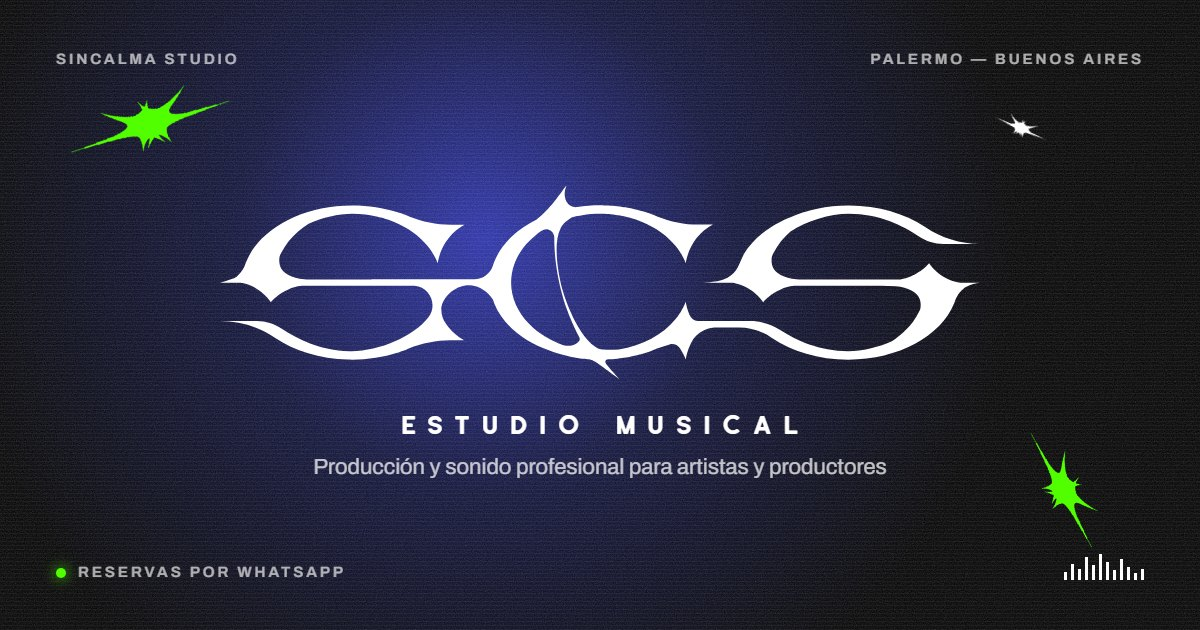
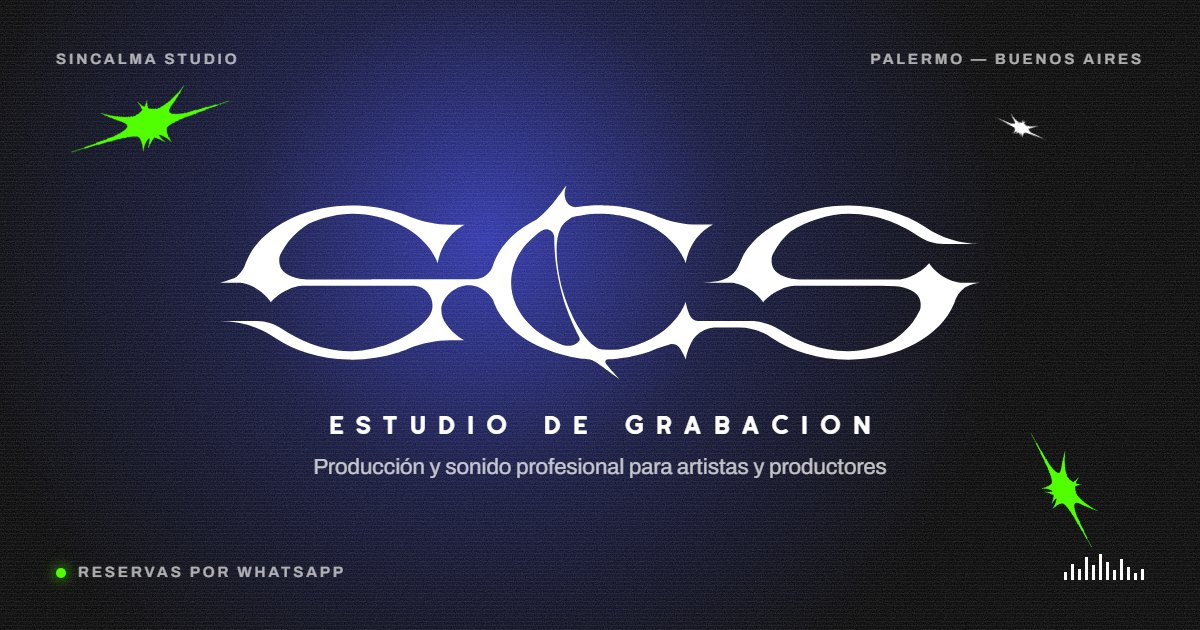
Estudio de grabación en lugar de estudio musical
Hero, título, descripción, OG/Twitter, texto de Sobre e imagen para
compartir. JSON-LD pasa a LocalBusiness (MusicStudio no es un tipo de
schema.org). Tracking del subtítulo del hero algo menor bajo 360px para
que entre en una línea.

Changed region(s): [[0.2775, 0.6333, 0.74, 0.6937]]

diff --git a/public/index.html b/public/index.html
@@ -3,23 +3,23 @@
 <head>
 <meta charset="utf-8">
 <meta name="viewport" content="width=device-width, initial-scale=1, viewport-fit=cover">
-<title>SinCalma Studio — Estudio musical en Palermo, Buenos Aires</title>
-<meta name="description" content="Estudio musical profesional y espacio creativo en Palermo, Buenos Aires. Grabación, producción, mezcla y master para artistas y productores. Reservá por WhatsApp.">
+<title>SinCalma Studio — Estudio de grabación en Palermo, Buenos Aires</title>
+<meta name="description" content="Estudio de grabación profesional y espacio creativo en Palermo, Buenos Aires. Grabación, producción, mezcla y master para artistas y productores. Reservá por WhatsApp.">
 <meta name="theme-color" content="#000000">
 <link rel="canonical" href="https://sincalma-studio.pages.dev/">
 <meta property="og:type" content="website">
 <meta property="og:locale" content="es_AR">
 <meta property="og:site_name" content="SinCalma Studio">
-<meta property="og:title" content="SinCalma Studio — Estudio musical en Palermo">
+<meta property="og:title" content="SinCalma Studio — Estudio de grabación en Palermo">
 <meta property="og:description" content="Producción y sonido profesional para artistas y productores. Reservá tu sesión por WhatsApp.">
 <meta property="og:url" content="https://sincalma-studio.pages.dev/">
 <meta property="og:image" content="https://sincalma-studio.pages.dev/og-image.jpg">
 <meta property="og:image:width" content="1200">
 <meta property="og:image:height" content="630">
 <meta property="og:image:type" content="image/jpeg">
-<meta property="og:image:alt" content="Logo de SinCalma Studio sobre fondo negro con brillo azul: estudio musical en Palermo, Buenos Aires">
+<meta property="og:image:alt" content="Logo de SinCalma Studio sobre fondo negro con brillo azul: estudio de grabación en Palermo, Buenos Aires">
 <meta name="twitter:card" content="summary_large_image">
-<meta name="twitter:title" content="SinCalma Studio — Estudio musical en Palermo">
+<meta name="twitter:title" content="SinCalma Studio — Estudio de grabación en Palermo">
 <meta name="twitter:description" content="Producción y sonido profesional para artistas y productores. Reservá tu sesión por WhatsApp.">
 <meta name="twitter:image" content="https://sincalma-studio.pages.dev/og-image.jpg">
 <link rel="icon" href="/favicon.ico" sizes="any">
@@ -36,7 +36,7 @@
   try{var rm=matchMedia('(prefers-reduced-motion: reduce)').matches;if(!rm&&!sessionStorage.getItem('sc-loader')){d.classList.add('js-loading')}}catch(e){}})();
 </script>
 <script type="application/ld+json">
-{"@context":"https://schema.org","@type":"MusicStudio","additionalType":"https://schema.org/LocalBusiness","name":"SinCalma Studio","description":"Estudio musical profesional y espacio creativo para artistas y productores.","url":"https://sincalma-studio.pages.dev/","image":"https://sincalma-studio.pages.dev/og-image.jpg","founder":{"@type":"Person","name":"Serena Ordano","alternateName":"Serena Sin Calma"},"address":{"@type":"PostalAddress","addressLocality":"Palermo, Buenos Aires","addressRegion":"CABA","addressCountry":"AR"},"areaServed":"Buenos Aires","sameAs":["https://instagram.com/sincalma.studio"]}
+{"@context":"https://schema.org","@type":"LocalBusiness","name":"SinCalma Studio","description":"Estudio de grabación profesional y espacio creativo para artistas y productores.","url":"https://sincalma-studio.pages.dev/","image":"https://sincalma-studio.pages.dev/og-image.jpg","founder":{"@type":"Person","name":"Serena Ordano","alternateName":"Serena Sin Calma"},"address":{"@type":"PostalAddress","addressLocality":"Palermo, Buenos Aires","addressRegion":"CABA","addressCountry":"AR"},"areaServed":"Buenos Aires","sameAs":["https://instagram.com/sincalma.studio"]}
 </script>
 <script type="module" src="/js/main.js"></script>
 </head>
@@ -92,12 +92,12 @@
       <img class="star" data-spin="-8" data-pulse=".05" data-par="-0.5" src="/assets/star-green.png" alt="" style="right:7%;bottom:17%;width:clamp(70px,9vw,160px)">
 
       <h1 class="hero-center">
-        <span class="sr-only">SinCalma Studio — Estudio musical en Palermo</span>
+        <span class="sr-only">SinCalma Studio — Estudio de grabación en Palermo</span>
         <span class="hero-logo" aria-hidden="true">
           <svg class="logo-svg" data-trace viewBox="0 0 383.08 97.1" xmlns="http://www.w3.org/2000/svg" focusable="false"><path d="M373.26,48.69c-.53,0-1.05-.08-1.56-.25h-.01c-1.85-.41-4.25-1.17-6.8-2.65-3.9-2.3-6.23-5.2-7.43-6.92-.86.96-2.26,2.38-4.19,3.79,0,0-2.21,1.59-4.89,2.74-1.75.76-3.59,1.27-5.38,1.59h-49.52c-.98-.04-1.95-.07-2.92-.12-6.17-.51-10.8-2.99-12.02-6.42-.99-2.77-.24-5.24-.24-5.24.23-.53.48-1.05.76-1.59,2.21-4.34,5.17-7.81,8.35-10.59,8.48-5.39,19.83-9,29.56-9.01,15.25-.02,27.45,6.08,35.18,11.25,3.73,2.51,8.1,3.89,12.6,3.89h18.32c-9.86,0-19.45-2.99-27.62-8.51-9.96-6.74-23.52-10.89-38.47-10.89-11.06,0-21.36,2.27-30.01,6.19-.03,0-.07.01-.08.03-3.29,1.36-6.37,2.96-9.17,4.75-.76.52-1.51,1.03-2.27,1.53-.36.26-.73.51-1.07.78-1.82,1.35-3.34,2.72-4.6,3.98-1.31,1.3-2.49,2.66-3.57,4.06-.2.26-.4.52-.6.79-.16.21-.31.43-.45.65-.38.57-.69,1.02-.71,1.06-.69,1.04-2.66,5.81-3.51,7.44-1.34,2.54-3.44,4.09-4.77,4.9-.4.24-.73.42-.95.54-2.35,1.26-4.39,1.49-8.3,1.91-1.29.14-2.49.21-3.58.25h8.21s-.01.07.03.07h7.08c.27.06.57.12.89.18,1.85.4,4.25,1.17,6.79,2.65,3.9,2.3,6.24,5.2,7.43,6.92.54-.59,1.28-1.37,2.21-2.2.43-.39.9-.78,1.42-1.17.18-.14.37-.28.56-.42,0,0,2.21-1.59,4.88-2.75,1.75-.76,3.6-1.26,5.38-1.58.34-.07.69-.13,1.03-.18h43.99c2.48.09,4.96.2,7.43.29,6.17.5,10.8,2.98,12.01,6.42.99,2.77.24,5.24.24,5.24-.23.53-.48,1.06-.76,1.59-3.36,6.61-8.48,11.21-13.48,14.43-7.05,3.09-14.95,4.98-21.99,4.99-14.57.02-26.35-5.53-34.1-10.53-4.59-2.97-9.91-4.61-15.37-4.61h-1.38v-.04h-25c-1.83-.16-3.43-1.31-4.16-3.03-1.17-2.73-1.69-5.15-1.93-6.64h-.02c-.33.9-.71,1.77-1.14,2.64h-.02c-.35.71-.73,1.4-1.14,2.08-.18.33-.38.64-.58.96-.7,1.07-1.45,2.11-2.29,3.11-6.35,7.69-16.56,13.31-28.53,15.27-3.2.21-6.03.13-8.33-.06h-.08s-.04,0-.07,0c0,0-1.76-.19-3.45-1.36-10.59-7.41-16.58-29.04-16.58-29.04,0,0-5.81-21-.83-30.62,1.1-2.13,2.72-3.37,2.72-3.37.92-.67,1.85-1.35,2.78-2.02h0c.48-.13.96-.26,1.44-.37.49-.11,1-.22,1.51-.33.82-.16,1.63-.32,2.44-.44,2.92-.46,5.96-.7,9.06-.7,1.26,0,2.54.04,3.78.13.48.03.95.07,1.4.1.93.09,1.85.19,2.75.32.46.07.92.13,1.36.2,1.8.3,3.58.67,5.28,1.12h.02c1.14.3,2.25.63,3.35,1.01h.02c1.1.36,2.17.76,3.21,1.2,6.83,2.82,12.62,6.96,16.76,11.98.83,1,1.59,2.05,2.29,3.11.2.32.4.63.58.96.41.68.79,1.37,1.14,2.07,0,0,.02,0,.02,0,.42.86.81,1.74,1.14,2.64h.02c.36-2.2,1.32-6.41,4.06-10.66.97-1.49,2.14-2.97,3.61-4.39,2.03-1.98,4.12-3.34,5.9-4.28-.01-.04-.01-.04-.02-.08h-7.04c-7.19,0-14.28-1.5-20.97-4.13-.27-.11-.55-.23-.82-.33-.5-.21-1.03-.41-1.56-.61-1.04-.41-2.1-.78-3.19-1.12-.53-.17-1.08-.34-1.62-.5-.55-.16-1.12-.32-1.67-.47-.83-.22-1.68-.43-2.53-.63-.83-.19-1.71-.37-2.57-.54-.02,0-.04-.02-.07-.02-.48-.08-.99-.18-1.49-.26-.14-.03-.27-.06-.42-.07-.55-.08-1.08-.17-1.6-.24-.81-.12-1.63-.22-2.46-.32-.83-.08-1.64-.16-2.47-.22-.37-.04-.73-.06-1.1-.08-.55-.04-1.12-.07-1.7-.08-.45-.03-.9-.04-1.36-.05-.68-.02-1.36-.03-2.04-.03-3.95,0-7.8.3-11.52.85-2.18.33-4.4-.71-5.43-2.66,0-.02-.02-.04-.03-.05-1.06-2.02-.94-3.91-.89-4.56.16-2.06.99-3.2.8-3.32-.42-.25-3.85,5.8-9.29,11.6-2.24,2.39-4.27,4.15-5.66,5.29-4.73,2.35-8.93,5.19-12.4,8.45-.27.25-.53.5-.79.76-3.6,3.55-6.37,7.55-8.13,11.85-.23.61-.46,1.22-.66,1.85l-.1.31c-1.33,4.07-5.13,6.83-9.41,6.83h-51.82v.05h-31c-.98-.04-1.95-.07-2.92-.12-6.17-.51-10.8-2.99-12.02-6.42-.99-2.77-.24-5.24-.24-5.24.23-.53.48-1.05.76-1.59,2.21-4.34,5.17-7.81,8.35-10.59,1.76-1.55,3.61-2.88,5.43-4.03,0,0,.02,0,.03-.01,7.03-3.08,14.89-4.95,21.9-4.97,4.58,0,8.87.54,12.86,1.45h0c.3.07.59.15.89.21.28.07.58.14.86.22h.02c.66.17,1.29.37,1.93.55.48.14.95.3,1.41.46h.02c1.1.36,2.17.76,3.2,1.2,6.84,2.82,12.62,6.96,16.76,11.98.83,1,1.59,2.05,2.29,3.11.2.32.4.63.58.96.41.68.79,1.37,1.14,2.07,0,0,.02,0,.02,0,.42.86.82,1.74,1.14,2.64h.02c.34-2.04,1.18-5.81,3.51-9.75.18-.31.37-.6.56-.91.48-.74,1.01-1.48,1.61-2.21.59-.74,1.25-1.47,2-2.17,2.02-1.99,4.12-3.35,5.9-4.28-.01-.04,0-.03-.02-.08h-7.04c-7.2,0-14.28-1.5-20.97-4.13-.27-.11-.55-.23-.81-.33-.51-.21-1.03-.41-1.56-.61-.27-.11-.52-.2-.78-.29-.55-.2-1.1-.39-1.66-.58-.24-.08-.48-.17-.74-.24-.07-.03-.15-.05-.21-.07h0c-6.98-2.21-14.74-3.46-22.91-3.46-25.36,0-46.76,11.93-53.32,28.23-.08.19-.16.38-.27.57-.35,1.24-1.45,4.49-4.63,7.07-.14.12-.29.21-.44.32,0,0-.41.28-.9.51-.53.25-3.27,1.16-7.07,2.23,3.5,0,7.01,0,10.51,0,.27.06.57.12.89.18,1.85.4,4.25,1.17,6.79,2.65,3.9,2.3,6.23,5.2,7.43,6.92.07-.08.16-.17.23-.25,0,.03,0,.06,0,.08,0-.04.02-.08.03-.12.51-.55,1.15-1.21,1.95-1.91.43-.39.9-.78,1.42-1.17.18-.14.37-.28.56-.42,0,0,2.21-1.59,4.88-2.75,1.75-.76,3.6-1.26,5.38-1.58.34-.07.69-.13,1.03-.18h35.24v.06h21.74c7.67.62,11.82,9.58,6.99,15.86-7.36,9.58-24.73,17.03-38.73,17.04-.38,0-.76,0-1.14-.01h-.14c-7.33-.16-13.93-1.71-19.64-3.85-5.71-2.14-10.51-4.87-14.27-7.38-3.73-2.5-8.11-3.89-12.6-3.89H.24c9.86,0,19.45,2.99,27.62,8.51,9.56,6.47,22.45,10.54,36.69,10.85v.02c.63.01,1.27.03,1.91.03,8.17,0,15.93-1.24,22.91-3.46h0c.07-.02.14-.04.21-.07.26-.07.5-.16.74-.25.56-.19,1.11-.38,1.66-.58.27-.09.52-.19.78-.29.53-.2,1.05-.4,1.56-.62.26-.09.55-.21.81-.33,6.69-2.62,13.78-4.12,20.97-4.12h7.04s.01-.03.02-.07c-1.22-.67-3.63-2.09-5.9-4.29-.69-.66-1.94-1.88-3.19-3.74-1.58-2.04-2.52-4.6-2.52-7.38,0-4.96,5.46-11.13,12.07-12.07.76-.11,2.25-.25,4.1.09,5.84,1.07,9.07,5.79,9.89,7.06l.03.08c.2.62.43,1.24.66,1.85,1.75,4.3,4.53,8.29,8.13,11.85.26.26.53.51.79.76,12.12,11.49,32.14,14.65,33.6,14.85.35.05.69.09.69.09,2.44.31,4.22.38,4.59.4,1.84.44,3.44,1.36,6.84,3.87,3.98,2.94,8.35,6.09,8.36,6.08,0-.01-4.87-5.16-6.45-7.25-.29-.38-.8-1.11-.58-1.77.14-.4.5-.64.74-.77.58-.01,1.15-.05,1.7-.09.37-.02.73-.04,1.1-.08.83-.06,1.65-.14,2.47-.22.83-.1,1.65-.2,2.46-.32.53-.07,1.05-.16,1.6-.24.13-.02.28-.04.42-.07.5-.08,1-.18,1.49-.27.02,0,.04,0,.07-.02.87-.17,1.74-.35,2.57-.54.85-.2,1.7-.41,2.53-.63.55-.15,1.12-.31,1.67-.47.55-.17,1.1-.34,1.62-.5,1.09-.35,2.14-.73,3.19-1.12.53-.2,1.05-.4,1.56-.61.27-.11.53-.22.82-.33,2.07-.82,4.19-1.52,6.33-2.1,1.98-.54,4.07.27,5.22,1.97l.02.03c.2.32.4.63.58.96.41.67.79,1.37,1.14,2.07,0,0,.02,0,.02,0,.42.87.81,1.74,1.14,2.64h.02c.33-2.01,1.16-5.72,3.41-9.6.28-.49.5-.83.65-1.05,1.4-2,3.14-3.02,4.04-3.53,3.11-1.78,6.36-1.96,7.73-1.96h10.91c5.98,0,11.89,1.74,16.72,5.26,0,0,0,0,0,0,9.96,6.74,23.52,10.89,38.48,10.89,25.36,0,46.74-11.93,53.32-28.23.07-.19.16-.38.25-.57.36-1.25,1.49-4.59,4.79-7.18,0,0,0,0,0,0,.3-.19.62-.36.95-.54,2.48-1.31,4.93-1.91,7.07-2.16h-9.82ZM181.06,77.95c-.58.66-1.2,1.14-1.8,1.49-1.69.97-3.63,1.11-5.58.79l-.1-.03c-.8-.28-1.61-.56-2.38-.87-.33-.13-.66-.25-.97-.39-1.26-.53-2.5-1.1-3.69-1.73-.61-.31-1.18-.62-1.77-.96-.28-.16-.56-.33-.85-.51-.11-.06-.21-.14-.32-.2-.43-.31-.72-.54-.81-.61v.09c-.18-.11-.35-.22-.53-.34-.31-.2-.62-.41-.92-.62-1.19-.83-2.31-1.72-3.39-2.66-.79-.7-1.56-1.43-2.29-2.16-5.6-5.77-8.93-12.91-8.93-20.67,0-3.28.6-6.46,1.71-9.47.21-.55.41-1.09.66-1.62h0c.46-1.07,1.01-2.12,1.6-3.13h0c.47-.78.95-1.53,1.46-2.27.53-.73,1.08-1.45,1.66-2.14.38-.46.79-.91,1.22-1.37.2-.22.4-.45.63-.68.2-.22.42-.43.64-.65.9-.88,1.85-1.71,2.83-2.51.94-.75,1.92-1.48,2.96-2.17,0,.02.01.04.02.06.21-.16,1.6-1.13,3.31-.71,1.59.39,2.82,1.82,3.05,3.6v.06c0,2.7.1,6.5.57,11.02.23,2.25,1.48,13.66,5.87,25.65,2.32,6.32,5.3,12.15,5.55,12.62.21.41.41.81.63,1.21.08.16.11.25.14.32.23.71-.1,1.41-.17,1.57Z"/></svg>
         </span>
         <span class="hero-sub" aria-hidden="true">
-          <span class="hero-kicker" data-in="mask" data-now data-delay="3000">ESTUDIO MUSICAL</span>
+          <span class="hero-kicker" data-in="mask" data-now data-delay="3000">ESTUDIO DE GRABACION</span>
           <span class="hero-tag" data-in="fade" data-now data-delay="3250">Producción y sonido profesional para artistas y productores</span>
         </span>
       </h1>
@@ -138,7 +138,7 @@
       </div>
       <div class="about-copy">
         <p class="lead" data-in="up">No imponemos una estética ni una forma de hacer música. Cada proyecto conserva su propia esencia mientras encuentra acá un espacio para desarrollarse, experimentar y crecer.</p>
-        <p class="body" data-in="up" data-delay="120">SinCalma Studio es un estudio musical profesional y espacio creativo pensado para artistas y productores que buscan desarrollar sus proyectos con criterio, precisión y libertad.</p>
+        <p class="body" data-in="up" data-delay="120">SinCalma Studio es un estudio de grabación profesional y espacio creativo pensado para artistas y productores que buscan desarrollar sus proyectos con criterio, precisión y libertad.</p>
       </div>
     </div>
   </section>

diff --git a/tools/brand-images/og.html b/tools/brand-images/og.html
@@ -31,7 +31,7 @@ html,body{margin:0;width:1200px;height:630px;overflow:hidden;background:#000}
   <div class="row top"><span>SINCALMA STUDIO</span><span>PALERMO — BUENOS AIRES</span></div>
   <div class="mid">
     <img src="scs-white.svg" alt="">
-    <span class="kick">ESTUDIO MUSICAL</span>
+    <span class="kick">ESTUDIO DE GRABACION</span>
     <span class="tag">Producción y sonido profesional para artistas y productores</span>
   </div>
   <div class="row bot">

diff --git a/public/css/styles.css b/public/css/styles.css
@@ -284,6 +284,8 @@ button{font:inherit;color:inherit}
   .station h3{white-space:normal}
 }
 
+@media (max-width:360px){.hero-kicker{letter-spacing:.3em;padding-left:.3em}}
+
 /* ---------- Reduced motion ---------- */
 @media (prefers-reduced-motion:reduce){
   html{scroll-behavior:auto}

diff --git a/docs/COPY.md b/docs/COPY.md
@@ -9,7 +9,7 @@ SINCALMA STUDIO · PALERMO — BA · CARGANDO SEÑAL · 000–100
 Manifiesto · El espacio · Instagram · SONIDO ON/OFF · BUE hh:mm:ss · Reservar sesión · MENÚ / CERRAR
 
 ## Hero
-ESTUDIO MUSICAL
+ESTUDIO DE GRABACION
 Producción y sonido profesional para artistas y productores
 ● REC 00:00:00:00 · ( PALERMO — BUENOS AIRES ) · DESLIZÁ
 
@@ -18,7 +18,7 @@ UN ESTUDIO DONDE LA CALIDAD TECNICA Y LA EXPLORACION ARTISTICA CONVIVEN
 
 ## Sobre SinCalma
 No imponemos una estética ni una forma de hacer música. Cada proyecto conserva su propia esencia mientras encuentra acá un espacio para desarrollarse, experimentar y crecer.
-SinCalma Studio es un estudio musical profesional y espacio creativo pensado para artistas y productores que buscan desarrollar sus proyectos con criterio, precisión y libertad.
+SinCalma Studio es un estudio de grabación profesional y espacio creativo pensado para artistas y productores que buscan desarrollar sus proyectos con criterio, precisión y libertad.
 
 ## Fundadora
 SERENA ORDANO — “Serena Sin Calma”

diff --git a/README.md b/README.md
@@ -1,6 +1,6 @@
 # SinCalma Studio — landing
 
-Landing inmersiva de SinCalma Studio (estudio musical, Palermo, Buenos Aires).
+Landing inmersiva de SinCalma Studio (estudio de grabación, Palermo, Buenos Aires).
 Sitio estático sin build: HTML + CSS + módulos JS nativos, con los efectos del handoff de diseño portados a Canvas 2D / WAAPI.
 
 - **Producción:** https://sincalma-studio.pages.dev (Cloudflare Pages)
@@ -10,7 +10,7 @@ Sitio estático sin build: HTML + CSS + módulos JS nativos, con los efectos del
 
 ```
 public/
-  index.html          markup y SEO (OG, JSON-LD MusicStudio, sin dirección exacta)
+  index.html          markup y SEO (OG, JSON-LD LocalBusiness, sin dirección exacta)
   css/styles.css      tokens, tipografía fluida y todas las secciones
   js/main.js          config del cliente, armador de WhatsApp, menú, escenas de scroll
   js/fx.js            motor de efectos (reveals, grano, halftone, cursor, drone, membrana…)
